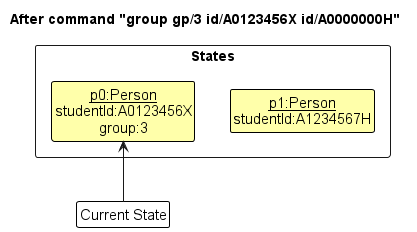
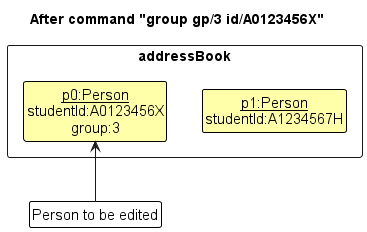
Update developer guide for group feature

diff --git a/docs/DeveloperGuide.md b/docs/DeveloperGuide.md
@@ -162,40 +162,51 @@ This section describes some noteworthy details on how certain features are imple
 The group feature is a modification of the original "tag" feature, where each person can have multiple tags with various sorts of information.
 We have adapted the tags for the express purpose of putting students into groups.
 
-The command, like all others, implements `execute`. In this case, all valid students will be put into the specified group.
+The command, like all others, implements `execute`. If possible, all students will be put into the specified group.
 A valid student needs to have a `studentId` which fulfils various criteria as specified in the `StudentId` class.
-A valid student should also be in the list of current students. 
-Students who are not in the list of existing students are mentioned in an error message. 
+A valid student should also be in the list of current students. **If any students are invalid, the whole command fails.**
+Students who are not in the list of existing students are given in the exception message of `GroupCommand` itself.
 
 Internally, the command makes use of the pre-existing `EditCommand#execute(StudentId, editPersonDescriptor)` method.
-It calls this method for all applicable students in a loop. 
-The loop identifies the `studentIds` of invalid students when `EditCommand` throws a `CommandException`.
-The collected `studentIds` are given in the exception message of `GroupCommand` itself.
+It calls this method for all given students in a loop.
 
-Here is an example usage scenario: 
+It is also possible to give no argument for `groups`. 
+In which case, the students given will have their groups set to none (i.e., removed).
+
+**Here is an example usage scenario:** 
 
 Step 1. The user enters command `group gp/3 id/A0123456X id/A0000000H` where
 `id/A0123456X` is in the list of existing students, but `id/A0000000H` is not.
 
 ![GroupState1](images/GroupState1.png)
 
-Step 2. The `group` command calls `EditCommand#execute(StudentId, editPersonDescriptor)` for the first student. 
-This student has a `studentId` of `A0123456X`, which is valid. Hence, the student 
-is added to group 3. 
+In this case, `id/A0123456X` is not in the list of existing students, so the whole command fails.
+
+Step 2. The user then enters command `group gp/3 id/A0123456X`.
+The `group` command calls `EditCommand#execute(StudentId, editPersonDescriptor)` for `id/A0123456X`. 
+Hence, the student is added to group 3. 
 
 ![GroupState2](images/GroupState2.png)
 
-Step 3. The `group` command calls `EditCommand#execute(StudentId, editPersonDescriptor)` for the first student.
-This student has a `studentId` of `A0000000H`, which is not in the list of existing students.
+Step 3. The user then enters command `group gp/7 id/A0123456X id/A1234567H`.
+Since both students are in the list, they are both added to group 7. 
+Note that `p0` still retains the original group, group 3.
 
 ![GroupState3](images/GroupState3.png)
 
-As seen above, such a student does not exist. 
-Hence, when `EditCommand#execute(StudentId, editPersonDescriptor)` is called, it throws a `CommandException`. 
-This exception is caught in the loop, which indicates to `GroupCommand` that the `studentId` could not be added.
+#### Design considerations:
 
-Hence, the end result is that only the student with `studentId` of `A0000000H` is added to group 3.
-The other student not in the list is not added to group 3, and is mentioned in a `CommandException` thrown by `GroupCommand`. 
+**Aspect: To allow partial success of command or not? 
+(i.e. successfully add some students even if only some provided IDs are valid)**
+
+* **Alternative 1 (current choice):** Disallow partial success.
+    * Pros: Leads to less confusion regarding whether students are successfully added to a group or not (either they all are, or they all aren't.)
+    * Is the standard expectation of a CLI command. 
+    * Cons: Will have to retype command if it fails.
+  
+
+* **Alternative 2:** Allow partial success.
+    * Pros and cons are the opposite of those of alternative 1.
 
 ### \[Proposed\] Undo/redo feature
 
